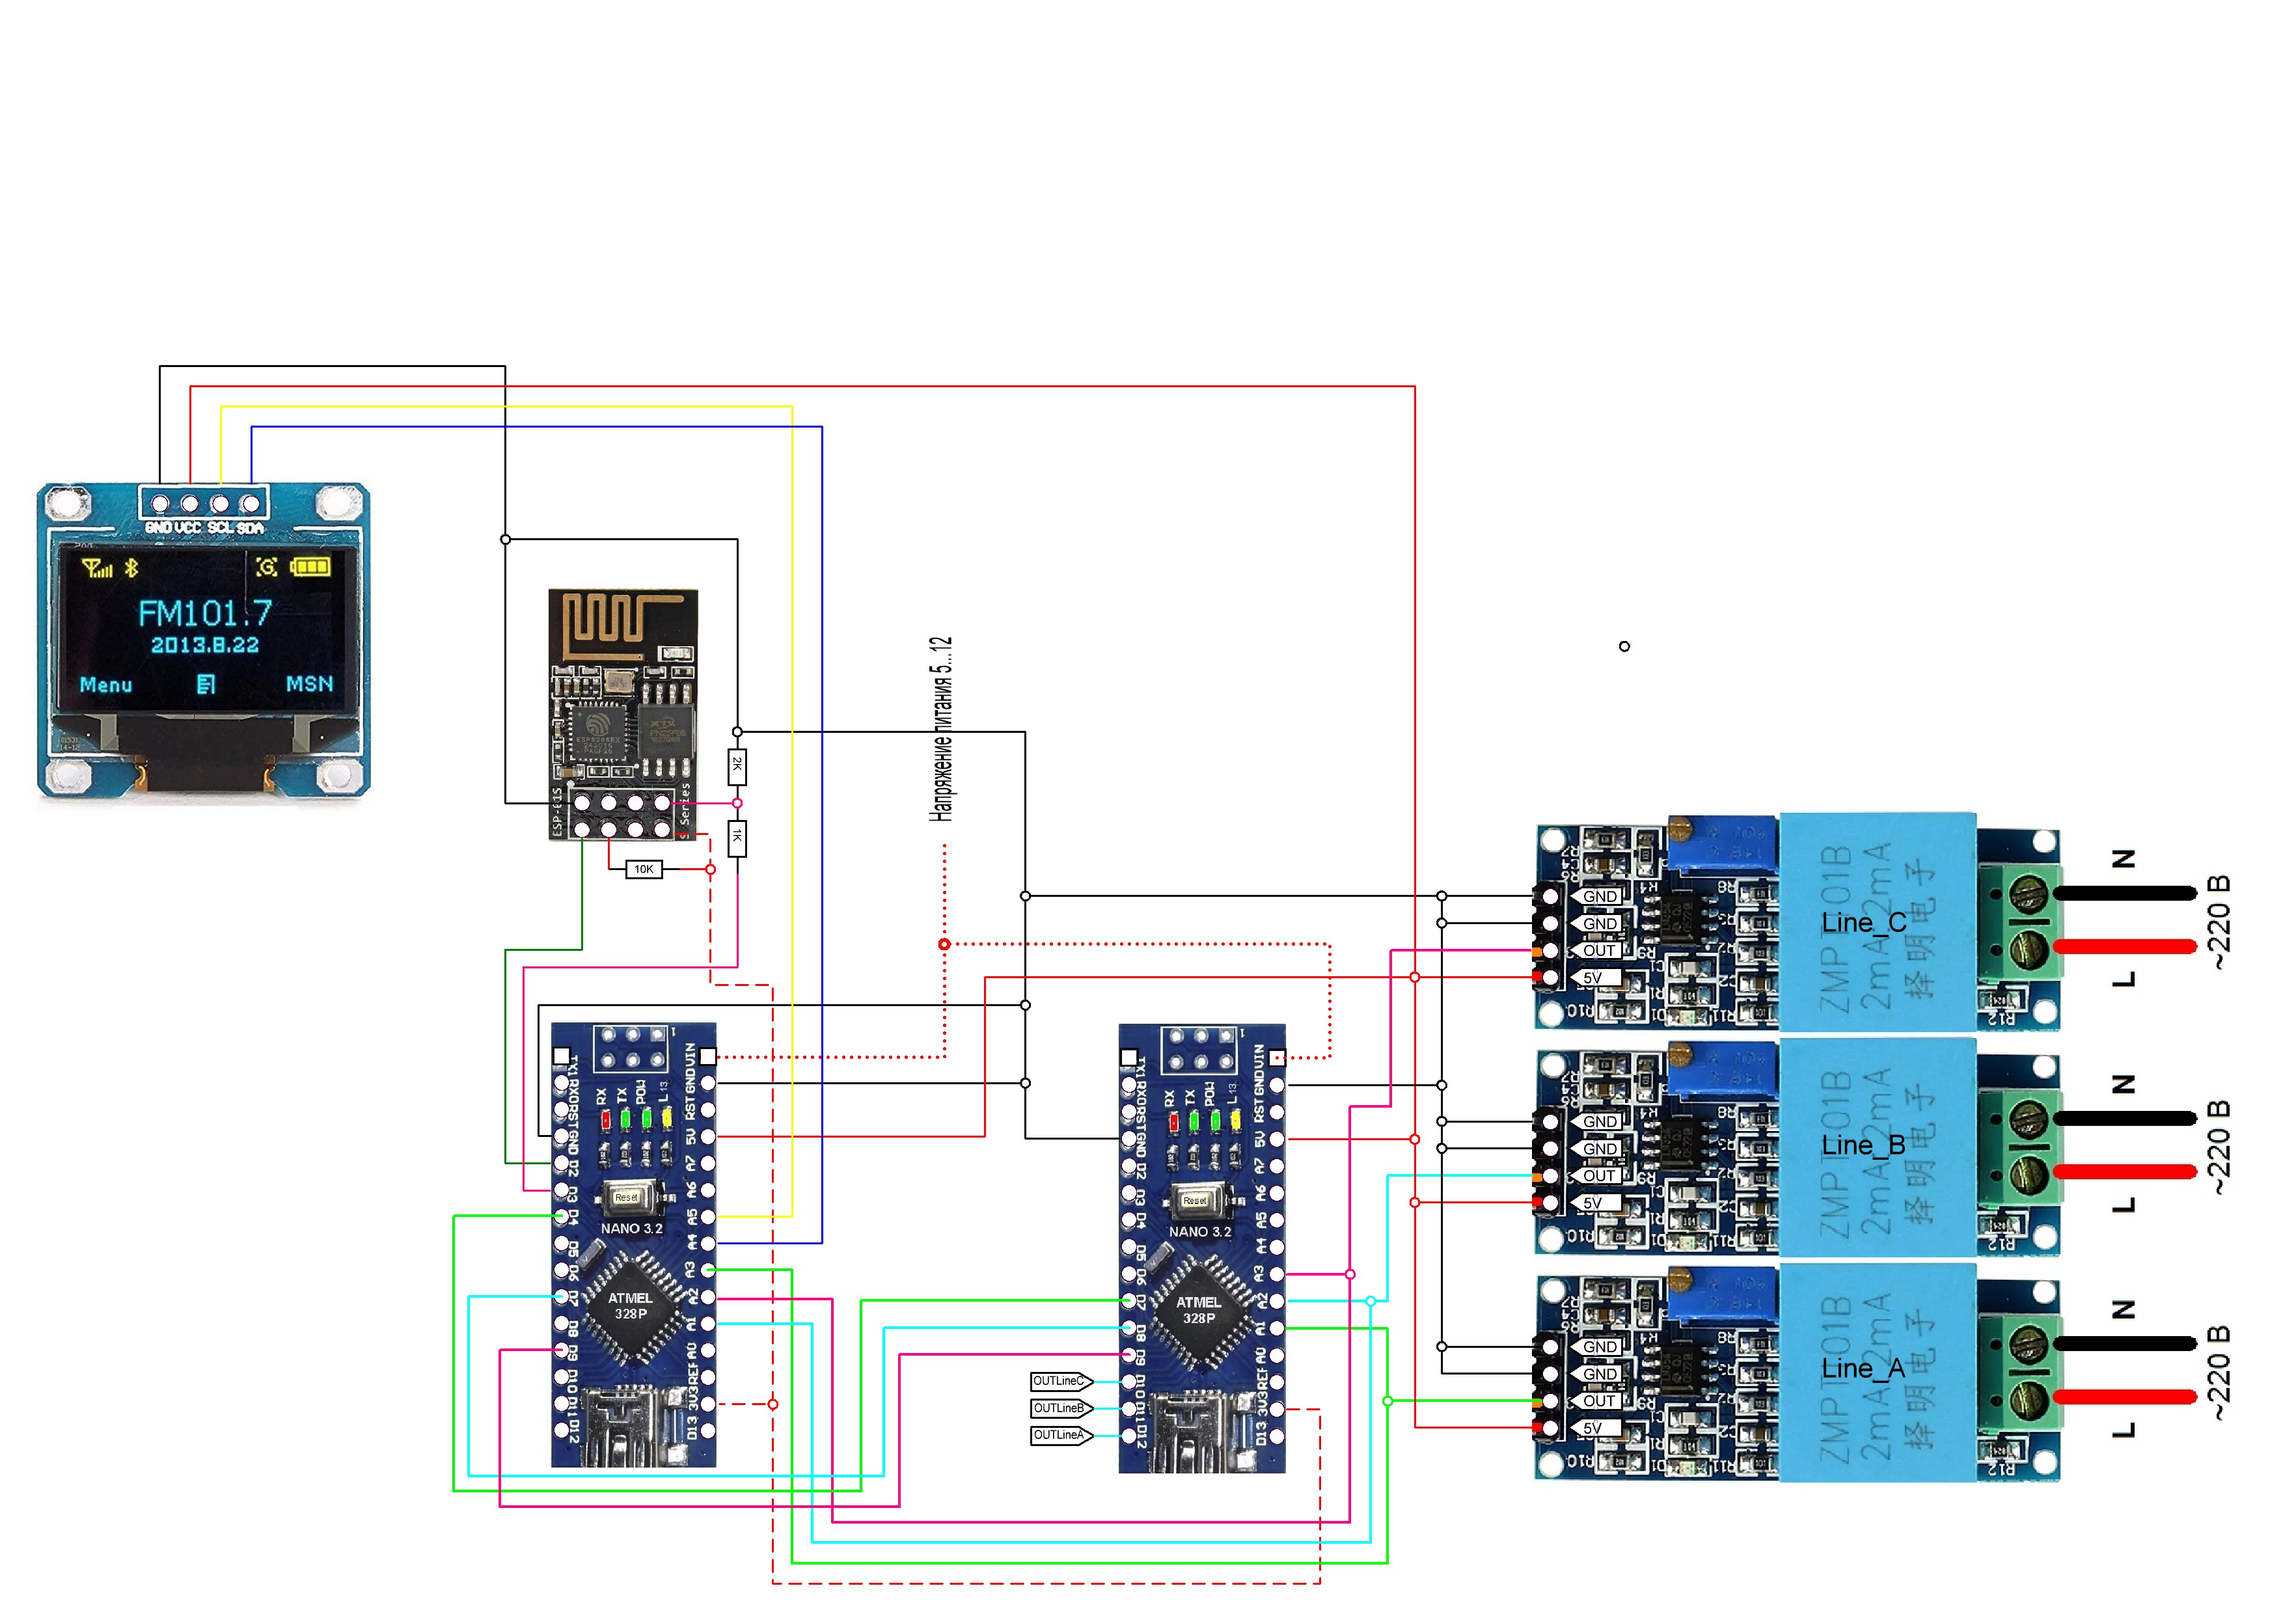
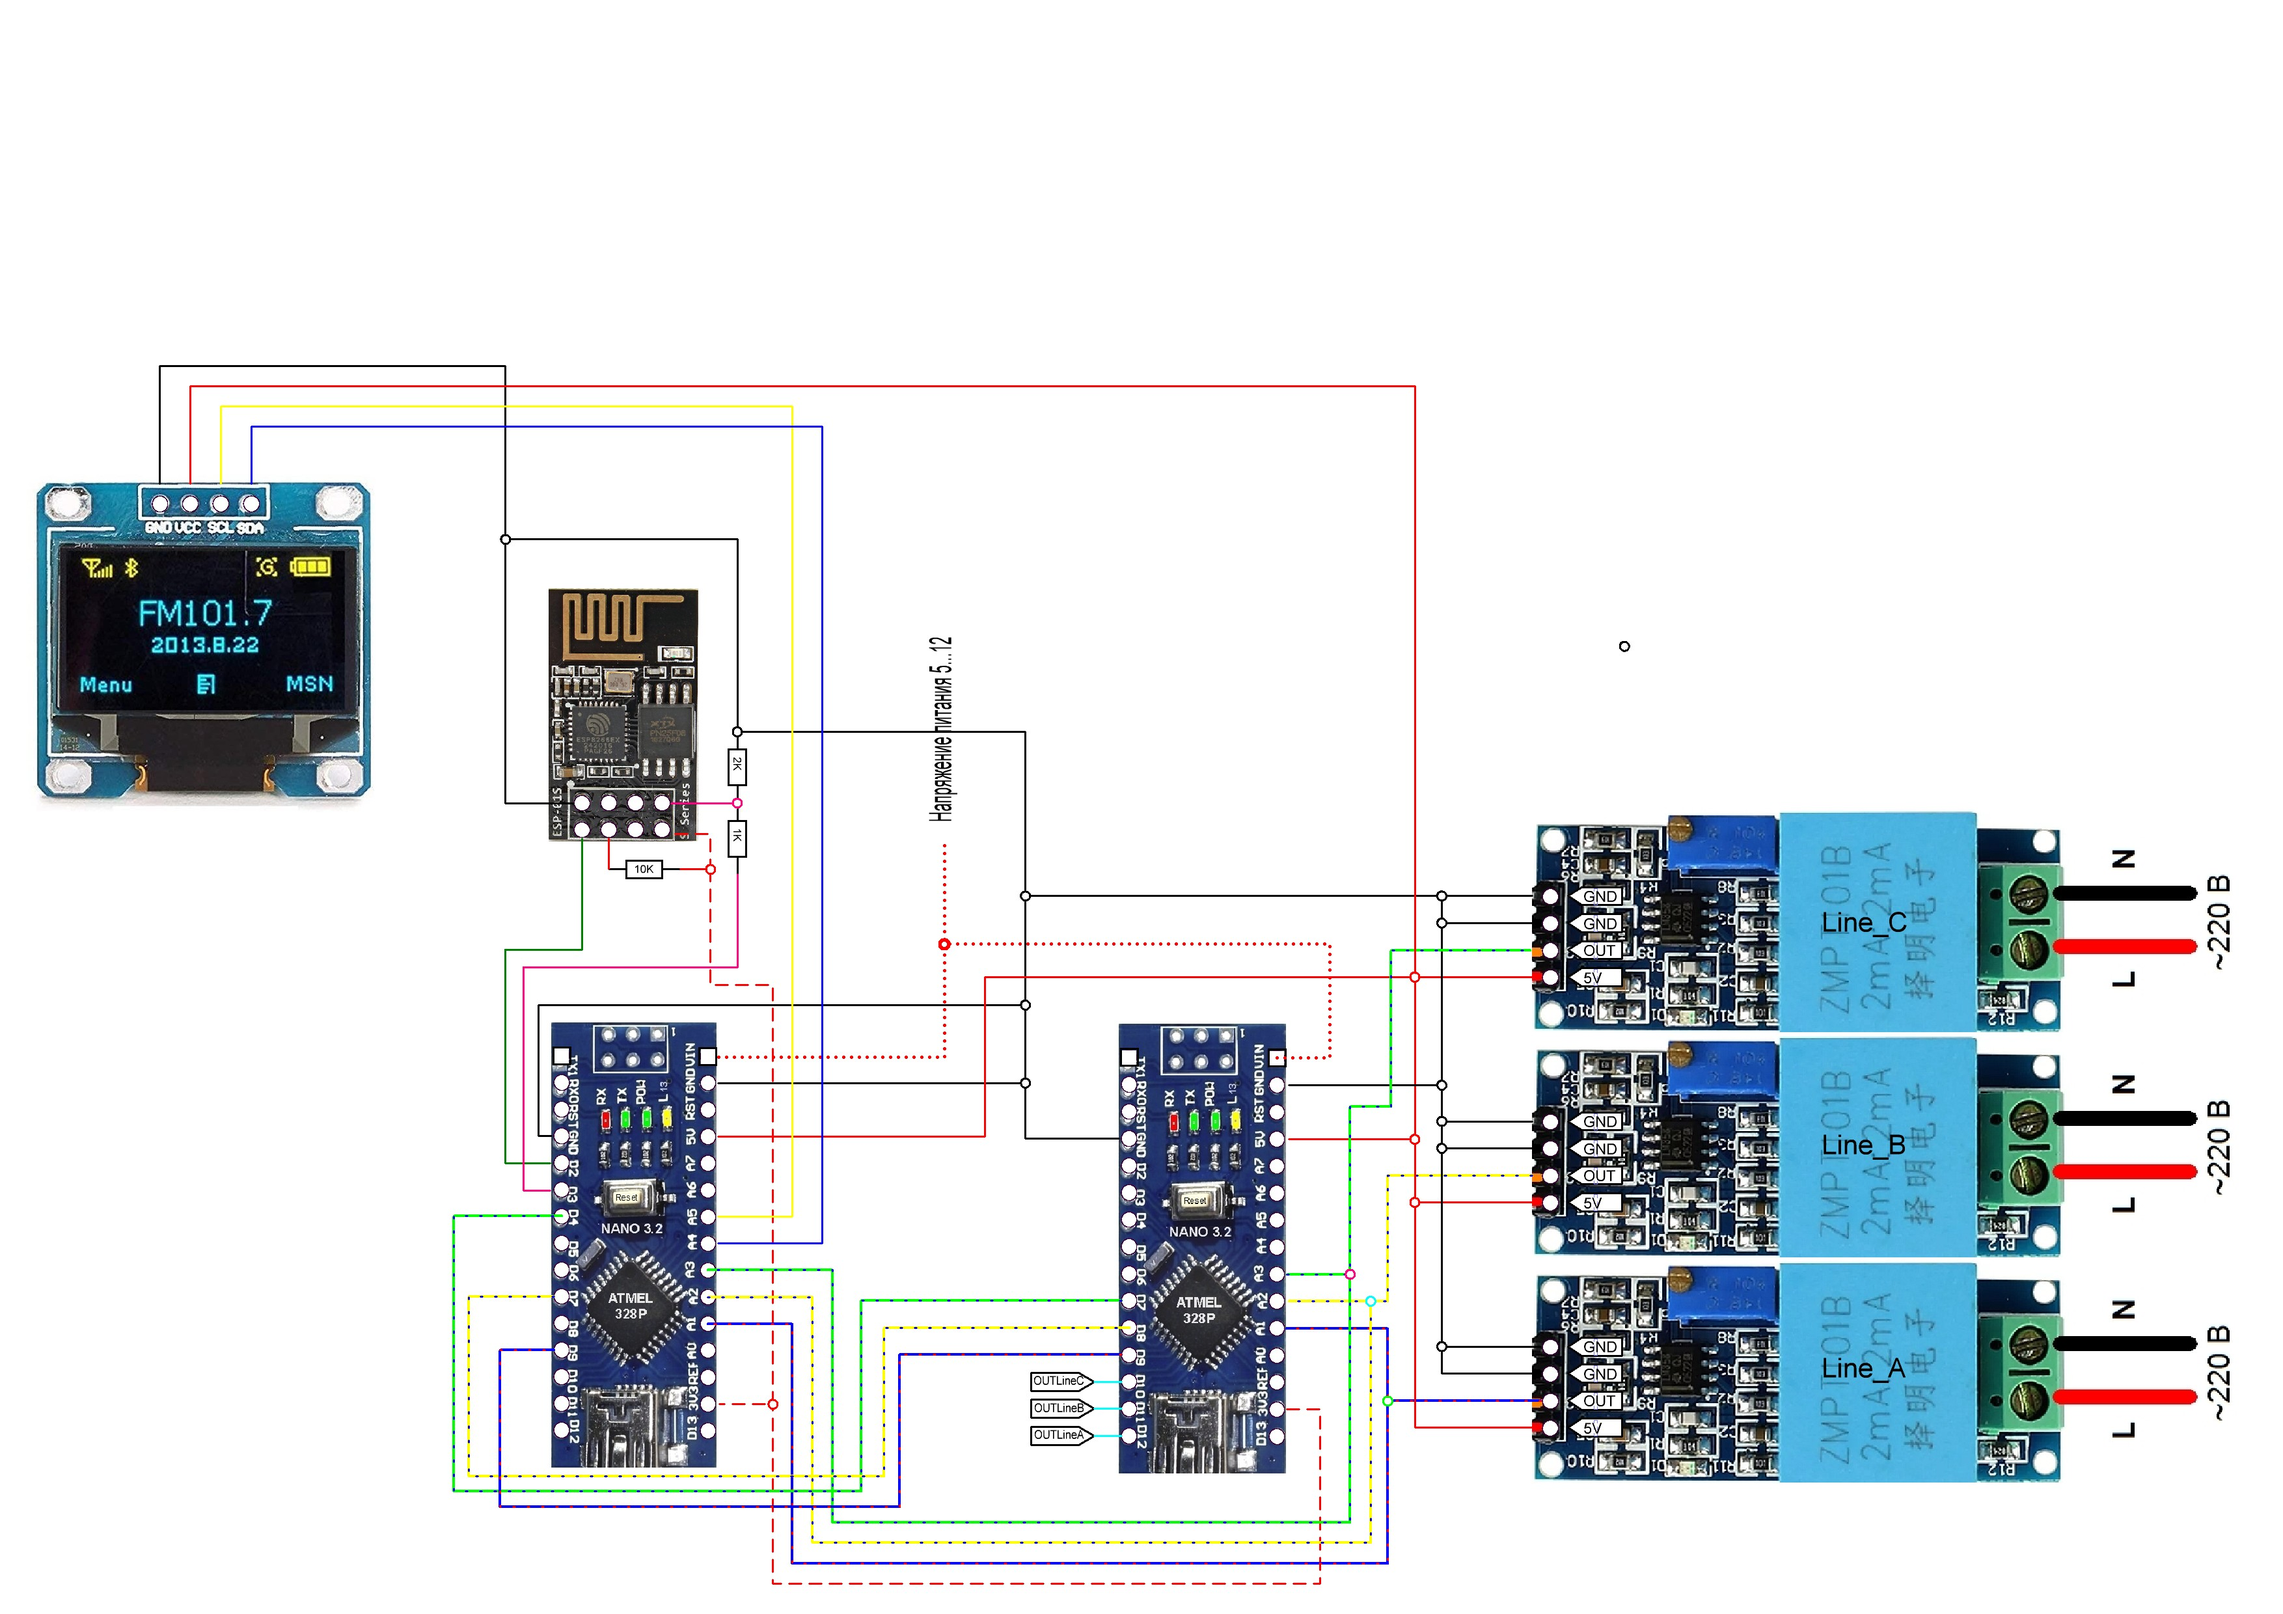
подправил рисунок

Changed region(s): [[0.3107, 0.7141, 0.6214, 0.9625], [0.2175, 0.9004, 0.2486, 0.9315]]

diff --git a/src/two_core#1.cpp b/src/two_core#1.cpp
@@ -1,0 +1,132 @@
+////////////////////////////////////////////////////////////////////////////////////////////////////////////
+//                                                                                                        //
+//   Комутатор фаз выполняет смену фазы для потребителя. когда входное напряжение ниже 170 вольт или      //
+// выше 250 вольт. Эти значения задаются в переменных "lowVolts" и "hiVolts". Также можно установить      //
+// время задержки переключения фаз в переменной "switchingDeflagLine_Ay". для семисторных переключателей  //
+// хватает "50", но для магнитных пускателей возможна необходимость изменить длительность                 //
+// задержки воизбежания смыкания фаз.                                                                     //
+// Флаги "flagLine_A/flagLine_B/flagLine_C" используются для недопущения вклюения одновременно наскольких //
+// фаз переменной "U" присваекается новое значения согласно тому какая фазавключена                       //
+//   P.S: рекомендация очевидная, но всёже: колибровать датчики напряжения лучше когда на все три         //
+// датчика подаётся одна и таже фазаю тем самым колибруются все три датчика на одном опорном напряжении   //
+//                                                                                                        //
+////////////////////////////////////////////////////////////////////////////////////////////////////////////
+#include <Arduino.h>
+#include <ZMPT101B.h> // библиотека управления датчиком напряжения
+
+#define LineA A1           // входной PIN LineA
+#define LineB A2           // входной PIN LineB
+#define LineC A3           // входной PIN LineC
+#define OUTLineA 12        // выходной PIN LineA
+#define OUTLineB 11        // выходной PIN LineB
+#define OUTLineC 10        // выходной PIN LineC
+#define OUTLineA_oneCore 9 // выходной PIN LineA
+#define OUTLineB_oneCore 8 // выходной PIN LineB
+#define OUTLineC_oneCore 7 // выходной PIN LineC
+
+ZMPT101B voltageSensorLineA(LineA); // активаци датчика на пряжения с ПИНом
+ZMPT101B voltageSensorLineB(LineB); // активаци датчика на пряжения с ПИНом
+ZMPT101B voltageSensorLineC(LineC); // активаци датчика на пряжения с ПИНом
+
+uint8_t U;                                          // переменная для вывода напряжение на дисплей
+uint8_t valA, valB, valC;                           // тип переменной для valA = analogRead(LineA), valB = analogRead(LineB), valC = analogRead(LineC)
+uint8_t hiVolts = 250;                              // значение верхнего уровня отключения
+uint8_t lowVolts = 170;                             // значение нижнего уровня тоключения
+boolean flagLine_A, flagLine_B, flagLine_C = false; // тип переменной для FLAG flagLine_A, flagLine_B, LC и присвоение " 0 " ;
+uint8_t switchingDelay = 50;                        //длительность задержки включения исполнительного устройства (твердотельного реле/ магнитного пускателя)
+
+//!============================= void setup() ==============================================
+void setup()
+{
+    Serial.begin(9600); // открытие последовательного порта
+
+    pinMode(LineA, INPUT);             // открытие порта на ВХОД
+    pinMode(LineB, INPUT);             // открытие порта на ВХОД
+    pinMode(LineC, INPUT);             // открытие порта на ВХОД
+    pinMode(OUTLineA, OUTPUT);         // открытие порта OUTLineA на выход
+    pinMode(OUTLineB, OUTPUT);         // открытие порта OUTLineB на выход
+    pinMode(OUTLineC, OUTPUT);         // открытие порта OUTLineC на выход
+    pinMode(OUTLineA_oneCore, OUTPUT); // открытие порта OUTLineA_oneCore на выход
+    pinMode(OUTLineB_oneCore, OUTPUT); // открытие порта OUTLineB_oneCore на выход
+    pinMode(OUTLineC_oneCore, OUTPUT); // открытие порта OUTLineC_oneCore на выход
+
+    digitalWrite(OUTLineA, LOW);         // установка состояния OUTLineA = 0
+    digitalWrite(OUTLineB, LOW);         // установка состояния OUTLineB = 0
+    digitalWrite(OUTLineC, LOW);         // установка состояния OUTLineC = 0
+    digitalWrite(OUTLineA_oneCore, LOW); // установка состояния OUTLineA_oneCore = 0
+    digitalWrite(OUTLineB_oneCore, LOW); // установка состояния OUTLineB_oneCore = 0
+    digitalWrite(OUTLineC_oneCore, LOW); // установка состояния OUTLineC_oneCore = 0
+}
+//!============================= void loop() ===============================================
+void loop()
+{
+    valA = voltageSensorLineA.getVoltageAC(50) * 5; // считывание пораметра с LineA и сохранение его в valA
+    valB = voltageSensorLineB.getVoltageAC(50) * 5; // считывание пораметра с LineB и сохранение его в valB
+    valC = voltageSensorLineC.getVoltageAC(50) * 5; // считывание пораметра с LineC и сохранение его в valC
+    Serial.print(String("valA ") + valA);
+    Serial.print(String("  valB ") + valB);
+    Serial.println(String(" valC ") + valC);
+
+    if (valA >= lowVolts && valA <= hiVolts && valA > 150 && (flagLine_B + flagLine_C == false))
+    {                                         // если valA >= 170 И valA <=249 И valA > 150 && (LB+LC == false) то
+        flagLine_A = 1;                       // состояние флага flagLine_A = 1
+        digitalWrite(OUTLineB, LOW);          // установка состояния OUTLineB = HIGH
+        digitalWrite(OUTLineC, LOW);          // установка состояния OUTLineC = HIGH
+        delay(switchingDelay);                // длительность задержки включения исполнительного устройства
+        digitalWrite(OUTLineA, HIGH);         // установка состояния OUTLineA = LOW
+        U = valA;                             // присвоение переменной U присваевается значение фазы valA
+        digitalWrite(OUTLineA_oneCore, HIGH); // установка состояния OUTLineA_oneCore = 1
+    }
+    else // если условие if не выполненоб тогда
+    {
+        flagLine_A = 0; // состояние флага flagLine_A = 0
+    }
+
+    if (valB >= lowVolts && valB <= hiVolts && valB > 150 && (flagLine_A + flagLine_C == false))
+    {
+        flagLine_B = 1;
+        digitalWrite(OUTLineA, LOW);
+        digitalWrite(OUTLineC, LOW);
+        delay(switchingDelay); // длительность задержки включения исполнительного устройства
+        digitalWrite(OUTLineB, HIGH);
+        U = valB;
+        digitalWrite(OUTLineB_oneCore, HIGH); // установка состояния OUTLineB_oneCore = 1
+    }
+    else
+    {
+        flagLine_B = 0;
+    }
+
+    if (valC >= lowVolts && valC <= hiVolts && valC > 150 && (flagLine_A + flagLine_B == false))
+    {
+        flagLine_C = 1;
+        digitalWrite(OUTLineB, LOW);
+        digitalWrite(OUTLineA, LOW);
+        delay(switchingDelay); //длительность задержки включения исполнительного устройства
+        digitalWrite(OUTLineC, HIGH);
+        U = valC;
+        digitalWrite(OUTLineC_oneCore, HIGH); // установка состояния OUTLineC_oneCore = 1
+    }
+    else
+    {
+        flagLine_C = 0;
+    }
+    //!-----------------------------------------------------------------------------------------
+    if (valA < lowVolts || valA > hiVolts)
+    {
+        digitalWrite(OUTLineA, LOW);
+        digitalWrite(OUTLineA_oneCore, LOW);
+    }
+
+    if (valB < lowVolts || valB > hiVolts)
+    {
+        digitalWrite(OUTLineB, LOW);
+        digitalWrite(OUTLineB_oneCore, LOW);
+    }
+
+    if (valC < lowVolts || valC > hiVolts)
+    {
+        digitalWrite(OUTLineC, LOW);
+        digitalWrite(OUTLineC_oneCore, LOW);
+    }
+}
